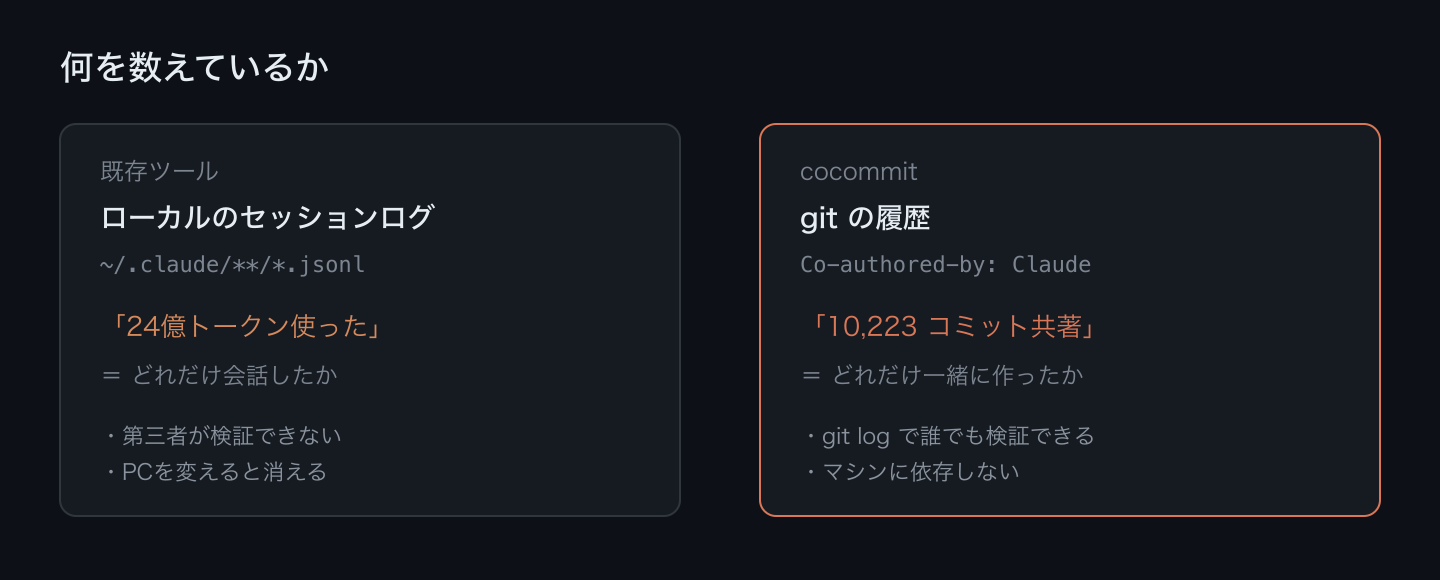
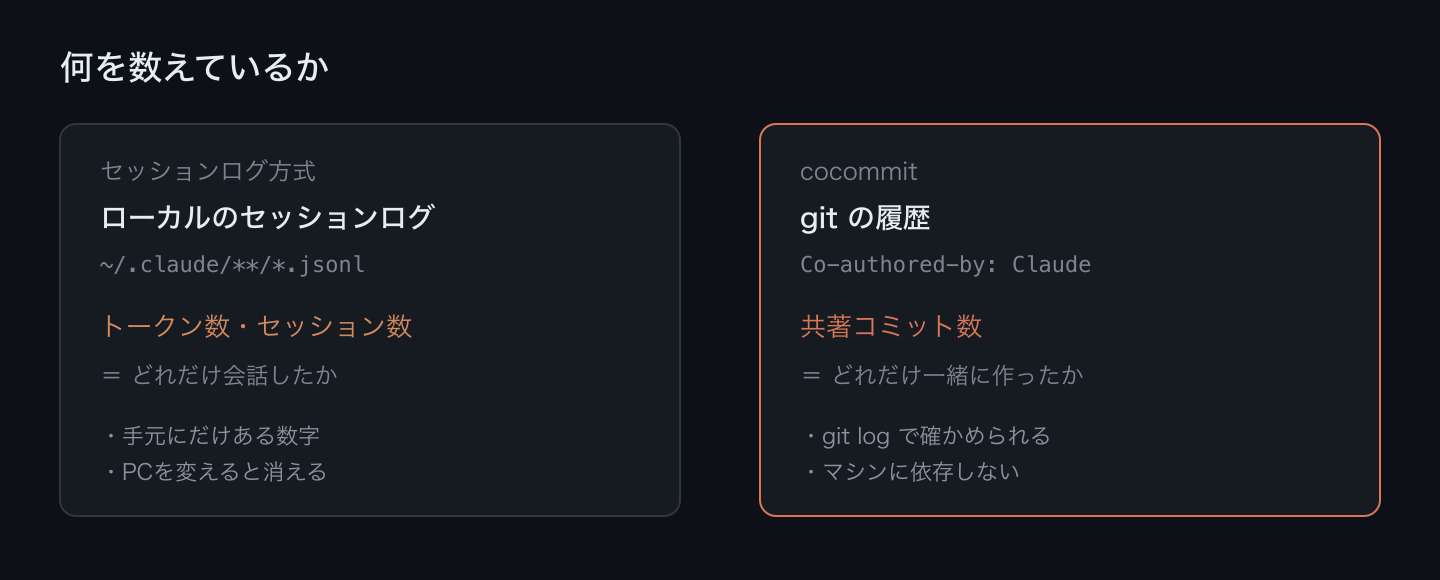
fix: 他者のアカウント名と数値の例示をやめ、比較の書き方を中立にする
第三者のGitHubアカウントを名指しでコミット数の例に使っていたのを削除。
既存ツールについても、星数や特定作者の数値を引き合いに出す書き方をやめ、
「2つの方式の違い」として説明する形に改めた。

diff --git a/articles/cocommit-ai-coauthored-commits.md b/articles/cocommit-ai-coauthored-commits.md
@@ -29,21 +29,23 @@ https://github.com/yosh1/cocommit
 
 ## 既存ツールは「会話量」を数えていた
 
-同じことを考えた人がいるはずだと思って探すと、それらしいものが複数ありました。`VibeTrace`、`cc-stats`、`agentcard`、`agent-wrapped`。星は一桁台のものが多く、決定版はまだない領域です。
+同じことを考えた人がいるはずだと思って探すと、AI利用状況をカードにするツールはいくつも見つかりました。よくできたものが多いです。
 
-ただ、見つけた6本すべてが**同じデータソース**を読んでいました。ローカルのセッションログ（`~/.claude/**/*.jsonl`）です。
+ただ、見つけた範囲ではどれも**同じデータソース**を読んでいました。ローカルのセッションログ（`~/.claude/**/*.jsonl`）です。
 
-つまり測っているのは「トークン数」「セッション数」「ツール呼び出し回数」。**AIとどれだけ会話したか**であって、**何を作ったか**ではない。
+そこから出るのは「トークン数」「セッション数」「ツール呼び出し回数」。**AIとどれだけ会話したか**を測る数字です。
 
-`Co-authored-by` トレーラの付いた実際のコミットを数えているものは、1本もありませんでした。
+自分が知りたかったのはそこではなく、**結果としてリポジトリに何が残ったか**でした。`Co-authored-by` トレーラの付いたコミットを数えているものは見つからなかったので、作ることにしました。
 
 ![比較図](/images/cocommit/compare.png)
 
-この差は地味に効きます。「24億トークン使った」は誰にも検証できない自己申告で、PCを変えたら消えます（あるツールがわざわざ「クロスデバイス同期」を機能として売りにしているのが、その裏返しです）。
+この違いは、数字の性質に効いてきます。
+
+ローカルログから出る数字は、自分のマシンの中だけにあります。PCを変えれば消えるし、他人が確かめる方法もない（クロスデバイス同期を機能として持つツールがあるのは、この弱点への対処だと思います）。
 
 一方 `Co-authored-by` は **git の履歴に刻まれた事実**です。誰でも `git log` で確認できるし、GitHub のサーバーに残るのでマシンを変えても消えません。
 
-正直に言うと、**向こうの数字のほうが派手**です。「24億トークン・$24,006相当」は「10,223コミット」よりインパクトがある。でも前者は検証できず、後者は git が証明してくれる。そこを取りました。
+トークン数のほうが、数字としては派手に出ます。「N億トークン」は「1万コミット」より大きく見える。でも自分は、検証できるほうの数字をプロフィールに置きたかった。それだけの違いです。
 
 ## 実装中にぶつかった3つの壁
 
@@ -100,7 +102,7 @@ $ gh api '/search/commits?q=author:yosh1+is:public' --jq '.total_count'
 
 **仕事のコードはたいてい private にあります。** public 限定で集計すると、自分の場合 2% という、実態とかけ離れた数字になってしまう。
 
-ここで Search Commits API の性質が効いてきます。他人の public コミットは検索できます（試しに `author:anuraghazra` を叩くと 49,512 件返ってきます）が、**他人の private は当然見えません**。
+ここで Search Commits API の性質が効いてきます。他人の public コミットは検索できますが、**他人の private は当然見えません**。
 
 つまりホスト型サービスを作っても、提供できるのは「public限定の数字」だけ。自分にとって一番出したい数字が出せない。
 
